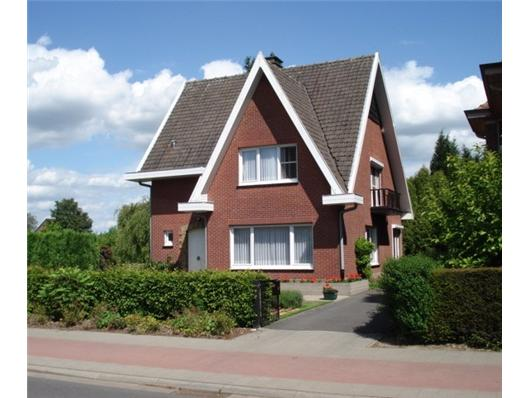
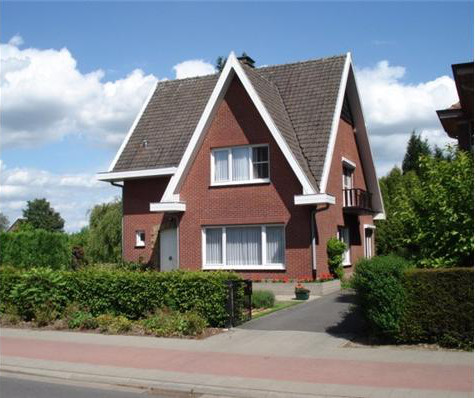
Admin link in menu
Admin link in menu + kleine aanpassing aan afbeelding (witte rand
weggehaald)

diff --git a/ViaSofie/ViaSofie/templates/ViaSofie/master.html b/ViaSofie/ViaSofie/templates/ViaSofie/master.html
@@ -49,6 +49,9 @@
                             <span class="caret"></span>
                         </a>
                         <ul class="dropdown-menu">
+                            {% if user.is_superuser %}
+                                <li><a href="{% url "admin:index" %}"><span class="glyphicon glyphicon-cog"></span> Beheer</a></li>
+                            {% endif %}
                             <li><a href="#"><span class="glyphicon glyphicon-user"></span> Mijn profiel</a></li>
                             <li><a href="#"><span class="glyphicon glyphicon-file"></span> Mijn dossier</a></li>
                             <li><a href="{% url "gebruikers.logout" %}"><span class="glyphicon glyphicon-log-out"></span> Uitloggen</a></li>
